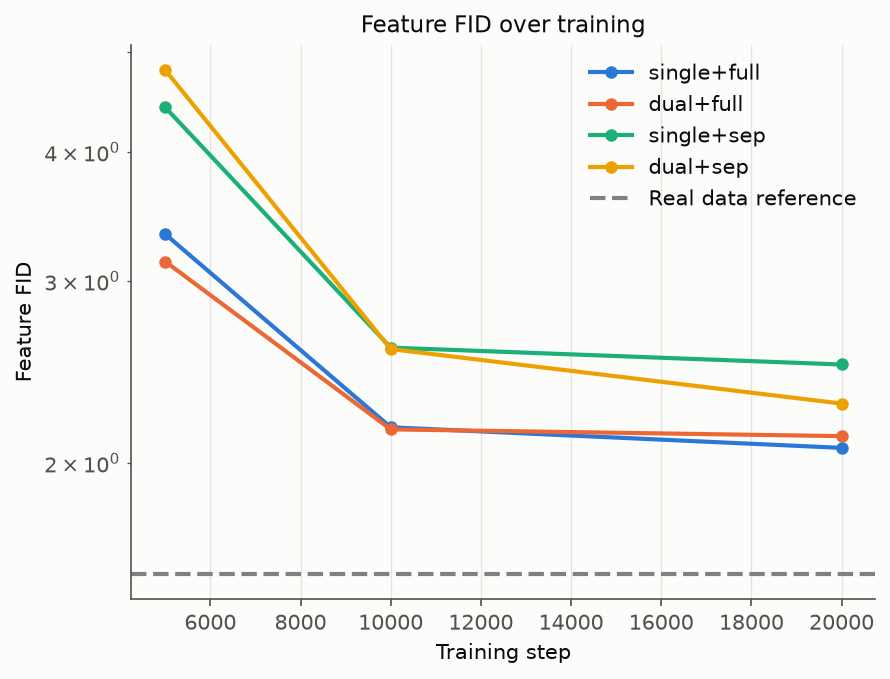
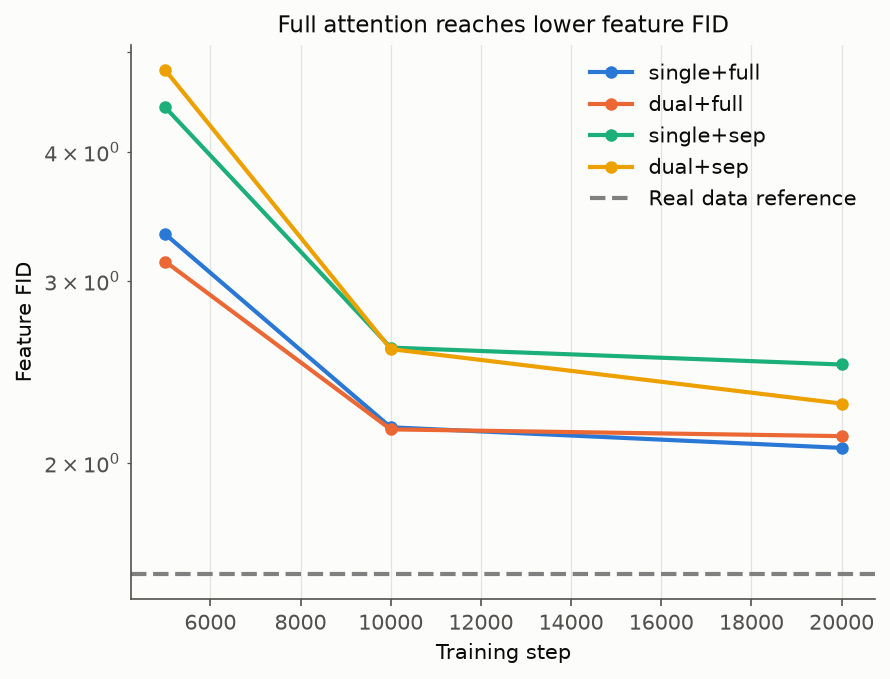
run[pc](2026-11-16-sra-selfflow-mnist): complete execution and figures

Changed region(s): [[0.3034, 0.0, 0.8191, 0.0619]]

diff --git a/topics/2026-11-16-sra-selfflow-mnist/code/run.py b/topics/2026-11-16-sra-selfflow-mnist/code/run.py
@@ -423,7 +423,7 @@ def plot_e1(metrics, base, out, figs):
         label = f'{s}+{a}'
         ax.plot(STEPS, [metrics[label]['checkpoints'][str(k)]['fid'] for k in STEPS], marker='o', label=label, color=figstyle.SERIES[i])
     ax.axhline(base['real_train_vs_test_fid'], color='gray', ls='--', label='Real data reference')
-    ax.set(xlabel='Training step', ylabel='Feature FID', yscale='log', title='Feature FID over training')
+    ax.set(xlabel='Training step', ylabel='Feature FID', yscale='log', title='Full attention reaches lower feature FID')
     ax.legend()
     figstyle.save_fig(fig, figs / 'E1_curve.png')
     fig, ax = plt.subplots()
@@ -432,7 +432,7 @@ def plot_e1(metrics, base, out, figs):
         ax.scatter(i, val, color=figstyle.SERIES[i], s=60)
     ax.hlines(vals[2], 2.7, 3.3, color='gray', linestyles='--', label='No interaction expectation')
     ax.set_xticks(range(4), [f'{s}\n{a}' for s, a in CONDITIONS])
-    ax.set(ylabel='Feature FID', title='Final feature FID across conditions')
+    ax.set(ylabel='Feature FID', title='Dual scheduling changes final FID by less than 10%')
     ax.legend()
     figstyle.save_fig(fig, figs / 'E1_final.png')
     fig, axes = plt.subplots(4, 20, figsize=(16, 3.5))
@@ -444,7 +444,7 @@ def plot_e1(metrics, base, out, figs):
             ax.axis('off')
         axes[row, 0].set_ylabel(f'{s}+{a}')
         axes[row, 0].text(-.2, .5, f'{s}+{a}', transform=axes[row, 0].transAxes, ha='right', va='center', fontsize=8)
-    fig.suptitle('Fixed noise: first two samples per class')
+    fig.suptitle('Fixed-noise samples look similar across conditions')
     figstyle.save_fig(fig, figs / 'E1_samples.png')
 
 
@@ -480,16 +480,20 @@ def e2(test, out, figs):
         results[name] = {'mse': values, 'relative_drop': 1 - values[-1] / values[0]}
         if name == 'dual+sep masked' and (max(values) - min(values)) / values[0] > .01:
             raise RuntimeError(f'E2 masked control varies by >1%; values={values}; stopping')
+    plot_e2(results, figs)
+    return results
+
+
+def plot_e2(results, figs):
     figstyle.setup()
     fig, ax = plt.subplots()
-    for i, (name, *_) in enumerate(lines):
+    for i, name in enumerate(('dual+full', 'single+full', 'dual+sep masked', 'dual+sep full')):
         ax.plot(CTX, results[name]['mse'], marker='o', label=name, color=figstyle.SERIES[i])
     ax.axhline(results['dual+full']['mse'][0], ls='--', color='gray', label='No interaction expectation')
     ax.invert_xaxis()
-    ax.set(xlabel='Context noise time', ylabel='Minority token velocity MSE', title='Velocity error as context becomes cleaner')
-    ax.legend()
+    ax.set(xlabel='Context noise time', ylabel='Minority token velocity MSE', title='Dual+full benefits from cleaner context')
+    ax.legend(loc='center left', bbox_to_anchor=(1.02, 0.5))
     figstyle.save_fig(fig, figs / 'E2_main.png')
-    return results
 
 
 def main():

diff --git a/topics/2026-11-16-sra-selfflow-mnist/code/replot.py b/topics/2026-11-16-sra-selfflow-mnist/code/replot.py
@@ -1,0 +1,23 @@
+#!/usr/bin/env python3
+"""Regenerate planned figures from recorded metrics and saved samples, CPU only."""
+import argparse
+import json
+from pathlib import Path
+
+import run
+
+
+def main():
+    p = argparse.ArgumentParser()
+    p.add_argument('--results', type=Path, required=True)
+    p.add_argument('--samples', type=Path, required=True)
+    p.add_argument('--figures', type=Path, required=True)
+    args = p.parse_args()
+    e1 = json.loads((args.results / 'E1.json').read_text())
+    e2 = json.loads((args.results / 'E2.json').read_text())
+    run.plot_e1(e1['metrics'], e1['baselines'], args.samples, args.figures)
+    run.plot_e2(e2['metrics'], args.figures)
+
+
+if __name__ == '__main__':
+    main()

diff --git a/topics/2026-11-16-sra-selfflow-mnist/SUMMARY.md b/topics/2026-11-16-sra-selfflow-mnist/SUMMARY.md
@@ -1,37 +1,73 @@
-# From SRA to Self-Flow — MNIST L2：执行记录
+# From SRA to Self-Flow — MNIST L2：结果与结论
 
-topic：2026-11-16-sra-selfflow-mnist · [计划](PLAN.md) · 状态：计算完成，等待人工验图和核对（running）
+topic：2026-11-16-sra-selfflow-mnist · [计划](PLAN.md) · 状态：executed
 
-**一句话结论**：后台计算已完成；图像尚未人工查看，正式结论待核对。
+**一句话结论**：单 seed 的 MNIST toy 中，双时间步未带来预设阈值下明显的 FID 改善；但在独立的上下文探针里，dual+full 模型对干净上下文有强烈响应。
 
 ## 结论先行
 
-- 不预判结果；等待逐图检查、核对指标和补写解释。
+- [E1 曲线](figures/E1_curve.png)：四组 FID 随训练降低；本次完整注意力两组在三个检查点都低于各自的分组注意力组。
+- [E1 终点](figures/E1_final.png)：完整注意力下 dual 与 single 的 FID 相差 2.65%；分组注意力下相差 9.10%，均不超过预先指定的 10% 阈值。后者靠近阈值，不能作稳健判断。
+- [E2 探针](figures/E2_main.png)：上下文从 t=0.8 变到 0 时，dual+full 的少数组速度 MSE 降低 86.74%；切断跨组注意力的对照完全水平。
+- [固定噪声样本](figures/E1_samples.png)可辨认各类别，但样本图无法替代上述定量比较。
 
-## E1：双时间步与注意力消融
+## E1：双时间步是否改善生成质量？
 
-20000 步 FID 原始值：`{'single+full': 2.068419895081206, 'dual+full': 2.1232866270370323, 'single+sep': 2.490778143784155, 'dual+sep': 2.283030796721505}`。完整结果见 [E1.json](results/E1.json)。
+**预测**：用户预测 dual+full 明显更好、dual+sep 与 dual+full 相当；agent 预测 dual+full 与 single+full 差不多，dual+sep 明显差于 dual+full、但不超过其 1.5 倍。
 
-## E2：训练时跨噪声交互
+![完整注意力在各检查点的特征 FID 较低](figures/E1_curve.png)
 
-误差下降比例原始值：`{'dual+full': 0.867415357243477, 'single+full': -0.4486477464133438, 'dual+sep masked': 0.0, 'dual+sep full': -0.31166869891657756}`。完整结果见 [E2.json](results/E2.json)。
+**怎么读**：横轴为训练迭代，纵轴为分类器特征 FID（越低越好，对数轴）；灰线是真实训练图对测试图的参照。四组在 20000 步的 FID 均高于真实参照 1.561，且不能与论文 FID 比较。
+
+![双时间步对最终 FID 的变化小于预设 10%](figures/E1_final.png)
+
+| 条件 | 20000 步 FID ↓ | 条件分类准确率 ↑ |
+|---|---:|---:|
+| single+full | 2.0684 | 97.70% |
+| dual+full | 2.1233 | 97.74% |
+| single+sep | 2.4908 | 98.45% |
+| dual+sep | 2.2830 | 98.30% |
+
+**怎么读**：灰色虚线为朴素预期的 single+sep 终点。预设相对差为 `|a−b| / min(a,b)`：dual+full 相对 single+full 为 2.65%，dual+sep 相对 single+sep 为 9.10%，dual+sep 相对 dual+full 为 7.52%，按 10% 阈值均为相当；其中 9.10% 靠近未经校准的阈值。single+sep 比 single+full 高 20.42%，这反映本次完整/分组注意力对照，但不单独证明双时间步的作用。
+
+**与预测对比**：用户对明显收益的预测未获支持，两个双时间步与单时间步对照均未越过 10%；用户对两个 dual 条件相当的预测与结果一致。agent 对 E1a“差不多”的预测一致；E1b 预测 dual+sep 明显更差未获支持，尽管它低于 1.5 倍的附加条件成立。因 dual+full 未明显优于 single+full，E1 不足以判定计划中的增强假设或交互解释。
+
+![同一噪声下各条件的生成样本](figures/E1_samples.png)
+
+**怎么读**：每行对应一种条件，每类取固定噪声的前两张，不挑选；图片展示能否辨识数字及个体差异，不证明细小 FID 差距可靠。
+
+## E2：干净上下文是否改变嘈杂 token 的误差？
+
+**预测**：用户预测误差大幅下降；agent 预测 dual+full 至少下降 50%，single+full 也下降但幅度更小。
+
+![dual+full 随上下文变干净而受益](figures/E2_main.png)
+
+**怎么读**：横轴从左至右代表上下文逐渐变干净，纵轴是固定在 t=0.8 的少数组速度 MSE。灰虚线是 dual+full 起点的“无变化”参照；分组掩码对照固定在 0.27549，五个点完全一致，满足误差变化不超过 1% 的实现检查。
+
+dual+full 从 0.21412 降至 0.02839，下降 86.74%，与用户“大幅下降”和 agent 的主预测一致。single+full 虽在中间时刻下降，但 t=0 时升至 0.31047，比起点高 44.86%，不符合 agent“终点也下降”的附加预测；dual+sep 用完整注意力时终点也比起点高 31.17%。这一受控探针支持 dual+full 模型会利用更干净上下文，但不能证明这种交互是 E1 生成质量变化的原因。
 
 ## 意外与反例
 
-待人工核对。
+single+full 与 dual+sep/full 两条探针曲线在完全干净的上下文处反弹；不能只展示中间下降区间来概括整个趋势。E1 在本次 seed 中没有出现预设意义上的双时间步明显收益。
 
 ## 这个 toy 能说明什么、不能说明什么
 
-解释待核对；MNIST 和自训分类器 FID 不等同于论文实验。单 seed 无法估计训练随机性；10% 阈值未经校准，接近阈值时不能下结论。
+- **toy 实测**：上述是一个 MNIST 小 DiT、单 seed、固定设置下的结果；真实训练图/测试图的特征 FID 为 1.5615，独立像素高斯基线为 1012.50。
+- **论文声称与推断**：论文的机制解释与本探针所测试的交互有关；本 toy 不能验证论文在 ImageNet、大模型或潜空间上的结论，探针本身也不提供 E1 的 FID 因果归因。
+- **统计与指标边界**：单 seed 无法估计训练随机性；10% 相对差是预先指定而未经校准的阈值，9.10% 接近边界，不应过度解读。FID 使用本实验自训分类器特征，不能与论文 FID 数值比较；MNIST 大面积背景也不同于自然图像。
 
 ## 下一步
 
-逐张人工验图，核对 JSON 与摘要，补写读图说明后再检查 executed。
+- 等待 Reviewer 与用户一起复盘预测差异；用户的 taste 判断由用户自己表达。
 
 ## 复现
 
-代码快照、命令与权重见运行记录 `E1-20261116-214028-pc` 和 `/home/pc/lab/runs/2026-11-16-sra-selfflow-mnist/E1-20261116-214028-pc/outputs`；数据只读复用 `/mnt/d/Datasets/MNIST/raw/`。
+- 运行记录：`E1-20261116-214028-pc`；代码快照和完整命令见 `results/runs/` 对应记录，权重及固定样本位于 `/home/pc/lab/runs/2026-11-16-sra-selfflow-mnist/E1-20261116-214028-pc/outputs`。读取 PC 既有 `/mnt/d/Datasets/MNIST/raw/`，未下载重复数据。
+- 图从现有 [E1.json](results/E1.json)、[E2.json](results/E2.json) 和该目录的样本用 [replot.py](code/replot.py) 生成；图中文字英文，未重新采样。
+- 环境：PC WSL2、RTX 3060、Python `/home/pc/lab/envs/main/bin/python`；torch 2.11.0+cu128、torchvision 0.26.0+cu128、numpy 2.5.4、scipy 1.18.1、matplotlib 3.11.2。分类器测试准确率 98.61%。
 
 ## 执行记录
 
-累计 34685.60 秒，含先前 smoke 174.39 秒。原 4 小时预算因 smoke 外推 8.31 小时而触发停止，用户随后批准上限提高至 10 小时。四张图已经生成但未人工查看，不标记 executed。
+- 总计 34685.60 秒（9.63 小时），包含先前 smoke、诊断、验证及保守预留，在用户批准的 10 GPU 小时预算内。初次训练在 3143 步因 FP16 梯度 Inf 停止；独立诊断支持 loss-scale 溢出，修复后 GradScaler 安全跳步并降低 scale，EMA 仅在成功更新时更新。四个条件分别跳过 6、7、7、7 次更新；20000 为迭代次数，详情见 E1 JSON。
+- 从旧运行 3000 步检查点恢复至新运行，保留旧检查点和运行记录；因共享 GPU 空闲不足，用户批准 student activation checkpoint 低显存执行。单 seed、10% 阈值及预算修订均已记入 PLAN；正式图和指标未由本段文字代替人工核对。
+- 主 agent 已逐张打开重绘后的四张图并核对；`check --phase executed` 为 0 ERROR、0 WARN。

diff --git a/EXPERIMENTS.md b/EXPERIMENTS.md
@@ -5,4 +5,4 @@
 | 日期 | topic | 论文 | 发现原型 | 状态 | 一句话发现 | 入口 |
 |---|---|---|---|---|---|---|
 | 2026-11-15 | 2026-11-15-sra-selfflow-augmentation | From SRA to Self-Flow: Data Augmentation or Self-Supervision? (arXiv 2607.02508) | 删掉“必要”组件 | reviewed | 合成 toy 无双时间步收益，来源无法判定；大 mask 切断有代价 | [发现](topics/2026-11-15-sra-selfflow-augmentation/DISCOVERY.md) · [计划](topics/2026-11-15-sra-selfflow-augmentation/PLAN.md) · [总结](topics/2026-11-15-sra-selfflow-augmentation/SUMMARY.md) |
-| 2026-11-16 | 2026-11-16-sra-selfflow-mnist | From SRA to Self-Flow: Data Augmentation or Self-Supervision? (arXiv 2607.02508) — MNIST L2 | 删掉“必要”组件 | running | 计算完成，等待人工验图和结果核对 | [发现](topics/2026-11-16-sra-selfflow-mnist/DISCOVERY.md) · [计划](topics/2026-11-16-sra-selfflow-mnist/PLAN.md) · [总结](topics/2026-11-16-sra-selfflow-mnist/SUMMARY.md) |
+| 2026-11-16 | 2026-11-16-sra-selfflow-mnist | From SRA to Self-Flow: Data Augmentation or Self-Supervision? (arXiv 2607.02508) — MNIST L2 | 删掉“必要”组件 | executed | 【待复盘】 | [发现](topics/2026-11-16-sra-selfflow-mnist/DISCOVERY.md) · [计划](topics/2026-11-16-sra-selfflow-mnist/PLAN.md) · [总结](topics/2026-11-16-sra-selfflow-mnist/SUMMARY.md) |
